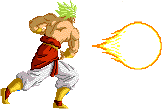
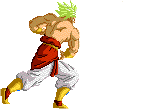
m More Moves/healthbar things made

Changed region(s): [[0.5556, 0.1927, 1.0, 0.6606]]

diff --git a/streetfighterclass.py b/streetfighterclass.py
@@ -30,7 +30,7 @@ class Sfighter:
                 if a==10:
                     self.SpecialMove.append(pygame.transform.scale(pygame.image.load('images/'+image+str(a)+'.png'),(z,z)))
         if image=='pD':
-            for a in range(0,14,1):
+            for a in range(0,15,1):
                 self.l.append(pygame.transform.flip(pygame.transform.scale(pygame.image.load('images/'+image+str(a)+'.png'),(z,z)),True,False,))
                 if a==0 or a==1 or a==2 or a==3 or a==4 or a==5 or a==6:
                     self.RunForward.append(pygame.transform.flip(pygame.transform.scale(pygame.image.load('images/'+image+str(a)+'.png'),(z,z)),True,False,))
@@ -46,9 +46,7 @@ class Sfighter:
             self.Spritecount=self.Spritecount+1
             if self.Spritecount>=len(self.Spritelist) or len(self.Spritelist)==1:
                 self.Spritecount=0
-        #print(self.Spritecount,len(self.Spritelist))
         if self.direction==0:
-            #print('jo')
             screen.blit(self.Spritelist[self.Spritecount],(self.startx,self.starty))
         else:
             screen.blit(pygame.transform.flip(self.Spritelist[self.Spritecount],True,False),(self.startx,self.starty))

diff --git a/streetfighter.py b/streetfighter.py
@@ -31,8 +31,8 @@ green=(0,255,0)
 blue=(0,0,255)
 white=(255,255,255)
 black=(0,0,0)
-p1health=300
-p2health=300
+p1health=400
+p2health=400
 def show_text(msg,x,y,color):
     fontobj= pygame.font.SysFont('comicsans',20)
     msgobj = fontobj.render(msg,False,color)
@@ -161,9 +161,10 @@ while True:
         S2.Move(screen,S2.Duck)
     elif m==1:
         S2.Move(screen,S2.SpecialMove)
+        p2health=p2health-25
         if S2.startx-175 <= S1.startx:
             print('punch2')
-            p1health=p1health-20
+            p1health=p1health-75            
     else:
         if S2.direction==0:
             screen.blit(S2.l[0],(S2.startx,S2.starty))

diff --git a/Snake.py b/Snake.py
@@ -43,6 +43,7 @@ while True:
     snakebody()
     pygame.draw.rect(screen,red,(foodx,foody,10,10),5)
     pygame.draw.rect(screen,green,(snakex,snakey,10,10),5)
+    
     show_text('Your score is:',460,5,blue)
     show_text(str(score),550,5,blue)
     if up==1:
